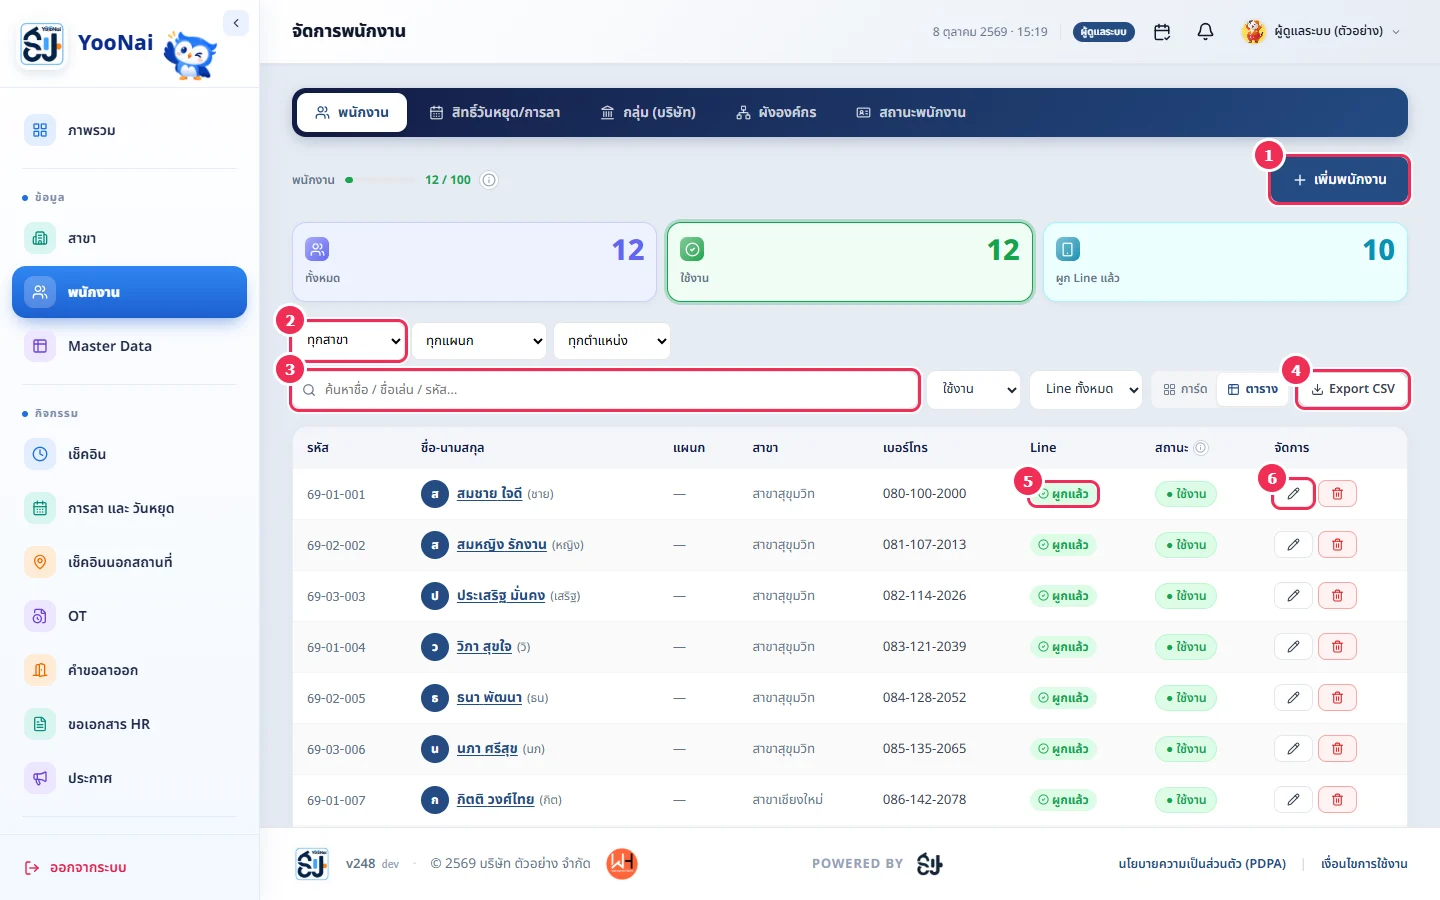
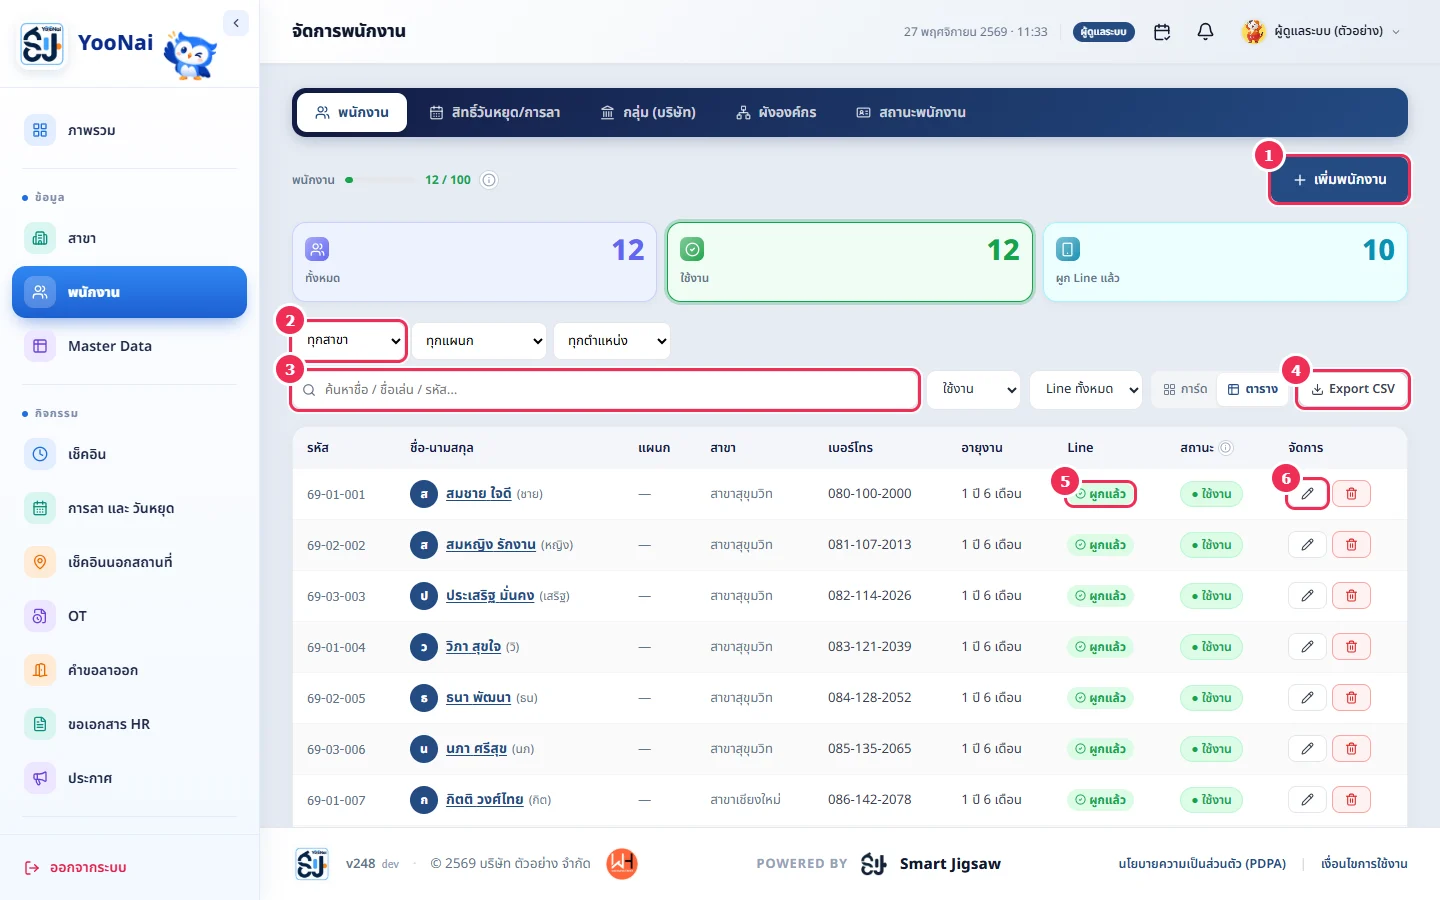
feat(admin): tenure column in employee table

diff --git a/admin/src/pages/employee/index.tsx b/admin/src/pages/employee/index.tsx
@@ -14,7 +14,7 @@ import { useIsMobile } from '../../hooks/useIsMobile'
 import { useSwipePage } from '../../hooks/useSwipePage'
 import { useIsReadOnly } from '../../stores/authStore'
 import { api } from '../../lib/axios'
-import { deptName, fmtThaiDate } from '../../lib/format'
+import { deptName, fmtThaiDate, tenureText } from '../../lib/format'
 import { avatarUrl } from '../../lib/upload'
 import OrgStructurePage from '../org-structure'
 import PolicyOverview from './PolicyOverview'
@@ -732,7 +732,7 @@ export default function EmployeePage() {
           <table style={{ width: '100%', borderCollapse: 'collapse', fontSize: '0.875rem' }}>
             <thead>
               <tr style={{ background: '#F4F6F9' }}>
-                {['รหัส', 'ชื่อ-นามสกุล', 'แผนก', 'สาขา', 'เบอร์โทร', 'Line', 'สถานะ', 'จัดการ'].map(h => (
+                {['รหัส', 'ชื่อ-นามสกุล', 'แผนก', 'สาขา', 'เบอร์โทร', 'อายุงาน', 'Line', 'สถานะ', 'จัดการ'].map(h => (
                   <th key={h} style={{ padding: '11px 14px', textAlign: 'left', fontWeight: 600, color: '#131C45', fontSize: '0.8rem', whiteSpace: 'nowrap' }}>
                     {h === 'สถานะ' ? (
                       <span style={{ display: 'inline-flex', alignItems: 'center', gap: 4 }}>
@@ -746,7 +746,7 @@ export default function EmployeePage() {
             </thead>
             <tbody>
               {filtered.length === 0 && (
-                <tr><td colSpan={8} style={{ padding: 0 }}>
+                <tr><td colSpan={9} style={{ padding: 0 }}>
                   {employees.length === 0 ? (
                     <EmptyState icon={<Users size={22} />} title="ยังไม่มีพนักงาน"
                       hint="เพิ่มพนักงานทีละคน หรือนำเข้าหลายคนพร้อมกันจากไฟล์ Excel"
@@ -776,6 +776,10 @@ export default function EmployeePage() {
                   <td style={{ padding: '11px 14px', color: 'var(--text-muted)', fontSize: '0.82rem' }}>{deptName(e.department)}</td>
                   <td style={{ padding: '11px 14px', color: 'var(--text-muted)', fontSize: '0.82rem' }}>{e.branch.name}</td>
                   <td style={{ padding: '11px 14px', color: '#374151', fontSize: '0.82rem' }}>{e.phone ?? '—'}</td>
+                  <td style={{ padding: '11px 14px', color: '#374151', fontSize: '0.82rem', whiteSpace: 'nowrap' }}
+                    title={e.hired_at ? `เริ่มงาน ${fmtThaiDate(e.hired_at)}${e.status !== 'ACTIVE' && e.status_effective_date ? ` · ถึง ${fmtThaiDate(e.status_effective_date)}` : ''}` : 'ยังไม่ได้ระบุวันเริ่มงาน'}>
+                    {tenureText(e.hired_at, e.status !== 'ACTIVE' ? e.status_effective_date : null)}
+                  </td>
                   <td style={{ padding: '11px 14px' }}>
                     {e.line_user_id
                       ? <span style={{ display: 'inline-flex', alignItems: 'center', gap: 3, background: '#dcfce7', color: '#16a34a', borderRadius: 99, padding: '2px 8px', fontSize: '0.75rem', fontWeight: 700 }}><CheckCircle2 size={11} /> ผูกแล้ว</span>

diff --git a/admin/src/lib/format.ts b/admin/src/lib/format.ts
@@ -30,6 +30,23 @@ export function fmtThaiDate(date?: string | Date | null): string {
   return d.toLocaleDateString('th-TH', { day: 'numeric', month: 'long', year: 'numeric' })
 }
 
+// อายุงาน "2 ปี 3 เดือน" (ย่อ ไม่แสดงวัน) — นับจากวันเริ่มงานถึง `until` (ไม่ส่ง = วันนี้)
+// พนักงานที่ออกแล้วให้ส่งวันสุดท้ายมา จะได้ไม่นับต่อไปเรื่อยๆ · ไม่มีวันเริ่มงาน = '—' · ไม่ถึงเดือน = 'ไม่ถึง 1 เดือน'
+export function tenureText(hiredAt?: string | null, until?: string | null): string {
+  if (!hiredAt) return '—'
+  const start = new Date(hiredAt.slice(0, 10) + 'T00:00:00')
+  const end = until ? new Date(until.slice(0, 10) + 'T00:00:00') : new Date()
+  if (isNaN(start.getTime()) || isNaN(end.getTime()) || end < start) return '—'
+  let years = end.getFullYear() - start.getFullYear()
+  let months = end.getMonth() - start.getMonth()
+  if (end.getDate() < start.getDate()) months--
+  if (months < 0) { years--; months += 12 }
+  const parts: string[] = []
+  if (years > 0) parts.push(`${years} ปี`)
+  if (months > 0) parts.push(`${months} เดือน`)
+  return parts.length ? parts.join(' ') : 'ไม่ถึง 1 เดือน'
+}
+
 // ป้ายกำกับ "กันยายน 2569" — สำหรับ context ที่เลือกทั้งเดือน (ไม่มีวันที่เจาะจง)
 export function fmtThaiMonth(date?: string | Date | null): string {
   if (!date) return '—'

diff --git a/admin/src/pages/manual/content.ts b/admin/src/pages/manual/content.ts
@@ -121,6 +121,7 @@ export const MANUAL: Category[] = [
           ]),
           { type: 'note', tone: 'tip', text: 'พนักงานที่ไม่ต้องเช็คอิน (เช่น ผู้บริหาร): กดดินสอแก้ไขพนักงาน แล้วติ๊ก **ไม่ต้องเช็คอิน** — เขาจะไม่ถูกนับเป็น ยังไม่เช็ค/ขาด/สาย ใน Dashboard หน้าเช็คอิน และรายงาน (ถ้ามาเช็คอินเองยังบันทึกได้ตามปกติ)' },
           { type: 'note', tone: 'info', text: 'แถบ "12 / 100" ใต้หัวข้อคือจำนวนพนักงานเทียบกับโควต้าของแพ็กเกจที่บริษัทใช้อยู่' },
+          { type: 'note', tone: 'tip', text: 'คอลัมน์ **อายุงาน** (ถัดจากเบอร์โทร) นับจากวันเริ่มงาน เช่น "2 ปี 3 เดือน" · พนักงานที่ลาออก/ไม่ใช้งานแล้วนับถึงวันสุดท้าย ไม่นับต่อไปเรื่อยๆ · ถ้ายังไม่ได้ระบุวันเริ่มงานจะขึ้น "—" (ใส่ได้ที่ฟอร์มแก้ไขพนักงาน) · เอาเมาส์ชี้เพื่อดูวันเริ่มงานจริง' },
         ],
       },
       {
